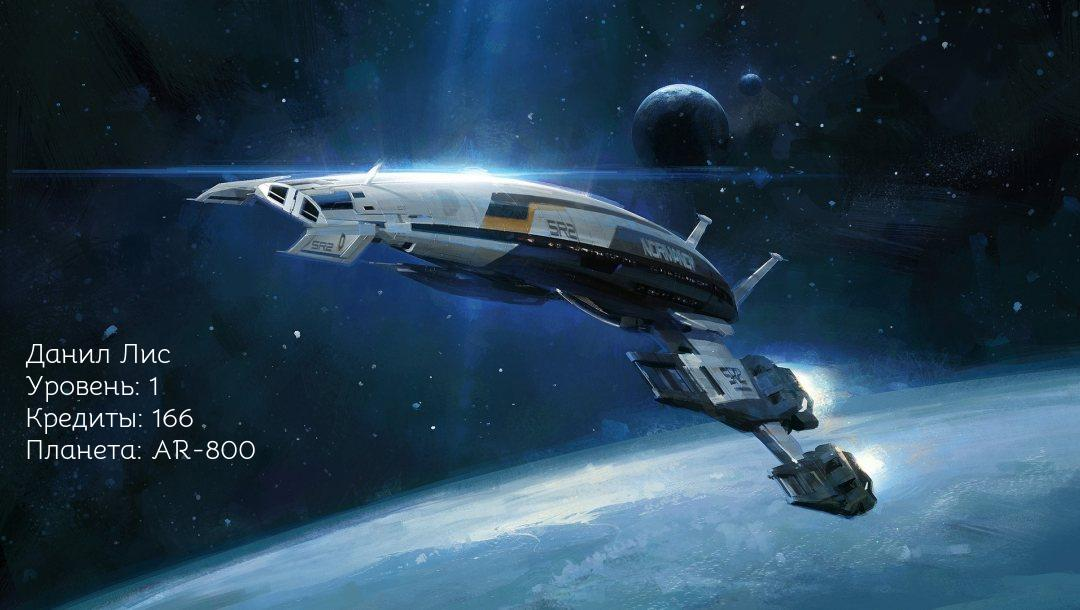
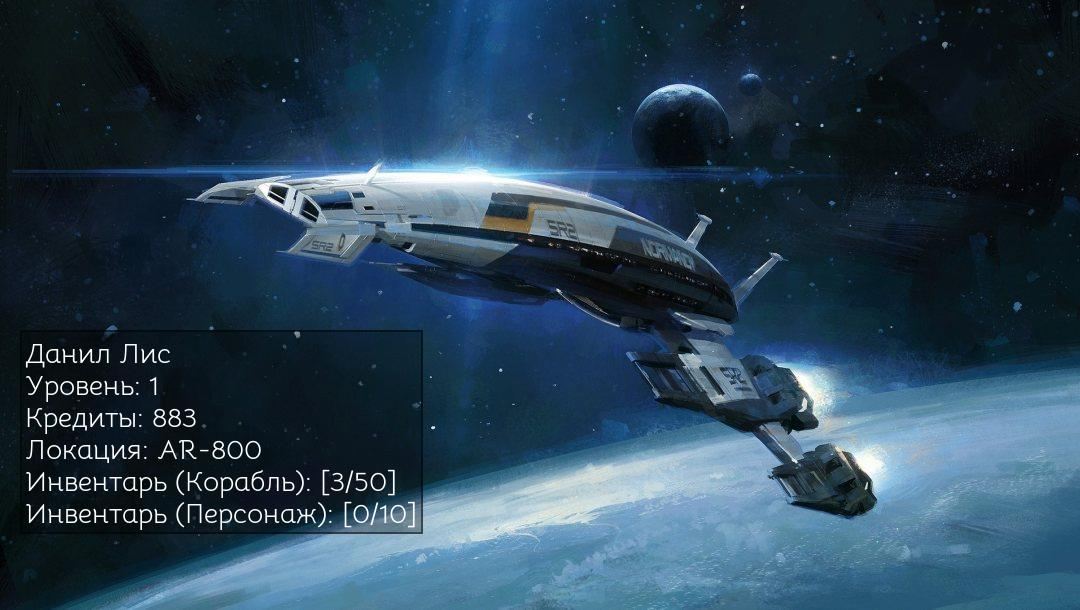
upd

Changed region(s): [[0.0, 0.6541, 0.3972, 0.9033], [0.2444, 0.5295, 0.3972, 0.5918], [0.3667, 0.6541, 0.3972, 0.6852]]

diff --git a/bot_start.py b/bot_start.py
@@ -113,29 +113,47 @@ def get_user_ship(user_id):
 	cur = conn.cursor()
 	cur.execute("SELECT item_id, count FROM users_inventory WHERE owner_id = ? and slot = ?", (user_id, 2))
 	items = cur.fetchall()
+	cur.execute("SELECT item_id, count FROM users_inventory WHERE owner_id = ? and slot = ?", (user_id, 3))
+	cur_items = len(cur.fetchall())
 	cur.execute("SELECT level, cash, planet, ship_id FROM users WHERE user_id = ?", (user_id,))
 	user = cur.fetchone()
+	# if user[2] % 10 != 0:
 	cur.execute("SELECT name FROM planets WHERE id = ?", (user[2],))
 	planet = cur.fetchone()[0]
+	# elif user[2] % 10 == 0:
+	# 	planet = 'Станция'
+	cur.execute("SELECT size_inventory_ship FROM users WHERE user_id = ?", (user_id,))
+	max_ship_slots = cur.fetchone()[0] # Сколько места на корабле
+	cur.execute("SELECT size_inventory_player FROM users WHERE user_id = ?", (user_id,))
+	max_user_slots = cur.fetchone()[0]
 	print(items)
 
 	fullname = get_user_name(user_id)
 	info = fullname[0]+' '+fullname[1]
 	info += '\n' + 'Уровень: ' + str(user[0])
 	info += '\n' + 'Кредиты: ' + str(user[1])
-	info += '\n' + 'Планета: ' + str(planet)
+	info += '\n' + 'Локация: ' + str(planet)
+	info += '\n' + 'Инвентарь (Корабль): [' + str(len(items)) + '/' + str(max_ship_slots) + ']'
+	info += '\n' + 'Инвентарь (Персонаж): [' + str(cur_items) + '/' + str(max_user_slots) + ']'
 
 
 	# if len(items) > 0:
 	# 	for item in items:
 	# 		item_info = check_item(item[0])
 	# 		fullname += '\n' + item_info[1] + ' - ' + str(item[1])
+	TINT_COLOR = (0, 0, 0)  # Black
+	TRANSPARENCY = .25  # Degree of transparency, 0-100%
+	OPACITY = int(255 * TRANSPARENCY)
 
 	img = Image.open('images/ship'+str(user[3])+'.jpg')
 	font = ImageFont.truetype('fonts/Bellota-Regular.ttf', size=28)
-	draw_text = ImageDraw.Draw(img)
+	draw_text = ImageDraw.Draw(img, "RGBA")
+	x, y = (25, img.height / 2 + 30)
+	w, h = draw_text.textsize(info, font)
+	draw_text.rectangle((x - 5, y - 5, x + w + 5, y + h + 10), fill=(0, 0, 0, 75))
+	draw_text.rectangle((x - 5, y - 5, x + w + 5, y + h + 10), outline=(0, 0, 0, 127), width=2)
 	draw_text.text(
-		(25, img.height / 2 + 30),
+		(x, y),
 		info,
 		font=font,
 		fill='#ffffff'
@@ -232,22 +250,28 @@ def get_items(user_id, slot_from, slot_to):
 		cur.execute("SELECT * FROM users_inventory WHERE owner_id = ? AND slot = ?", (user_id, slot_from,))
 		user_slots = cur.fetchall()
 
-		for slot in user_slots:
-			cur.execute("SELECT * FROM users_inventory WHERE owner_id = ? AND slot = ? AND item_id = ?", (user_id, slot_to, slot[0],))
-			current_ship_slot = cur.fetchone()
-			if len(current_ship_slot) != 0:
-				value = current_ship_slot[2] + slot[2]
-				cur.execute("UPDATE users_inventory SET count = ?, reg_time = ? WHERE owner_id = ? AND item_id = ? AND slot = ?", (value, datetime.now(), user_id, slot[0], slot_to,))
-				conn.commit()
-				cur.execute("DELETE FROM users_inventory WHERE item_id = ? AND owner_id = ? AND slot = ?", (slot[0], slot[1], slot[3],))
-				conn.commit()
-			elif len(current_ship_slot) == 0:
-				cur.execute("SELECT * FROM users_inventory WHERE owner_id = ? AND slot = ?", (user_id, slot_to,))
-				ship_slots = cur.fetchall() 
-				now_ship_slots = len(ship_slots) # Кол-во вещей на корабле
-				if now_ship_slots < max_slots:
-					cur.execute("UPDATE users_inventory SET slot = ?, reg_time = ? WHERE owner_id = ? AND item_id = ?", (slot_to, datetime.now(), user_id, slot[0],))
+		if len(user_slots) >= 1:
+
+			for slot in user_slots:
+				cur.execute("SELECT * FROM users_inventory WHERE owner_id = ? AND slot = ? AND item_id = ?", (user_id, slot_to, slot[0],))
+				current_ship_slot = cur.fetchone()
+				if current_ship_slot == None or len(current_ship_slot) == 0:
+					cur.execute("SELECT * FROM users_inventory WHERE owner_id = ? AND slot = ?", (user_id, slot_to,))
+					ship_slots = cur.fetchall() 
+					now_ship_slots = len(ship_slots) # Кол-во вещей на корабле
+					if now_ship_slots < max_slots:
+						cur.execute("UPDATE users_inventory SET slot = ?, reg_time = ? WHERE owner_id = ? AND item_id = ?", (slot_to, datetime.now(), user_id, slot[0],))
+						conn.commit()
+				elif len(current_ship_slot) != 0:
+					value = current_ship_slot[2] + slot[2]
+					cur.execute("UPDATE users_inventory SET count = ?, reg_time = ? WHERE owner_id = ? AND item_id = ? AND slot = ?", (value, datetime.now(), user_id, slot[0], slot_to,))
 					conn.commit()
+					cur.execute("DELETE FROM users_inventory WHERE item_id = ? AND owner_id = ? AND slot = ?", (slot[0], slot[1], slot[3],))
+					conn.commit()
+				
+			return send_message_to_user(user_id, 'Вы перенесли предметы на корабль')
+		else:
+			return send_message_to_user(user_id, 'Инвентарь персонажа пуст')
 
 
 
@@ -305,13 +329,17 @@ def create_sortie(user_id, state_planet):
 			text = 'Вы нашли жилу руды и добыли её \n'
 			count = status_planet[4] + random.randint(-5, 10)
 			text += 'Получено: ' + ore[1] + ' - ' + str(count) + ' шт.'
+			if state_on == 2:
+				text+= '\nПродолжаем путь...'
 			add_item(ore[0], user_id, count, 3)
 			send_message_to_user(user_id, text)
 
-		elif situation > 3 and situation < 8: # Хлам
+		elif situation > 3 and situation < 8 and status_planet[8] != None: # Хлам
 			trash = check_item(random.choice(status_planet[8].split(',')))
 			text = 'Вы нашли немного хлама \n'
 			text += 'Получено: ' + trash[1]
+			if state_on == 2:
+				text+= '\nПродолжаем путь...'
 			add_item(trash[0], user_id, 1, 3)
 			send_message_to_user(user_id, text)
 
@@ -319,11 +347,19 @@ def create_sortie(user_id, state_planet):
 			text = 'Вы нашли немного монет \n'
 			count = status_planet[5] + random.randint(-20, 20)
 			text += 'Получено: Кредиты' + ' - ' + str(count) + ' шт.'
+			if state_on == 2:
+				text+= '\n\nПродолжаем путь...'
 			add_money(user_id, count)
 			send_message_to_user(user_id, text)
 
-		if state_on == 2:
-			send_message_to_user(user_id, 'Продолжаем путь...')
+		else:
+			text = 'Вы ничего не нашли \n'
+			if state_on == 2:
+				text+= '\n\nПродолжаем путь...'
+			send_message_to_user(user_id, text)
+
+		# if state_on == 2:
+		# 	send_message_to_user(user_id, 'Продолжаем путь...')
 
 	send_message_to_user_keyboard(user_id, 'Вы возвращаетесь к кораблю...', 'empty')
 	change_state(user_id, 2, 'возвращение с планеты', None)
@@ -352,138 +388,146 @@ def create_sortie(user_id, state_planet):
 # 	""")
 # 	conn.commit()
 
-for event in longpoll.listen():
-	if event.type == VkEventType.MESSAGE_NEW and event.to_me and event.text:
-		print('\/\/\/\/\/\/\/\/\/\/\/\/\/\/\/\/\/\/\/\/\/\/')
-		print('Сообщение пришло в: ' + str(datetime.strftime(datetime.now(), "%H:%M:%S")))
-		print('Текст сообщения: ' + str(event.text))
-		print('ID пользователя: ' + str(event.user_id))
-		print('===========================================')
+while True:
+	try:
+		for event in longpoll.listen():
+			if event.type == VkEventType.MESSAGE_NEW and event.to_me and event.text:
+				print('\/\/\/\/\/\/\/\/\/\/\/\/\/\/\/\/\/\/\/\/\/\/')
+				print('Сообщение пришло в: ' + str(datetime.strftime(datetime.now(), "%H:%M:%S")))
+				print('Текст сообщения: ' + str(event.text))
+				print('ID пользователя: ' + str(event.user_id))
+				print('===========================================')
 
-		if event.from_user and not (event.from_me):
-			response = event.text.lower()
-			text = ''
-			fullname = get_user_name(event.user_id)
-			allow_to_bot = check_user(event.user_id)
-			print('Кто: '+fullname[0]+' '+fullname[1])
-			print('Доступ: '+str(allow_to_bot))
+				if event.from_user and not (event.from_me):
+					response = event.text.lower()
+					text = ''
+					fullname = get_user_name(event.user_id)
+					allow_to_bot = check_user(event.user_id)
+					print('Кто: '+fullname[0]+' '+fullname[1])
+					print('Доступ: '+str(allow_to_bot))
 
-			if allow_to_bot == 1:
-				status = check_status(event.user_id)
-				state = status[0]
-				state_info = status[1]
-				state_planet = status[2]
-				end_time = status[3]
-				print('Занятость: '+str(state))
-				print('Статус: '+str(state_info))
+					if allow_to_bot == 1:
+						status = check_status(event.user_id)
+						state = status[0]
+						state_info = status[1]
+						state_planet = status[2]
+						end_time = status[3]
+						print('Занятость: '+str(state))
+						print('Статус: '+str(state_info))
 
-				if state == None:
+						if state == None:
 
-					if state_info == 'выбор системы': # СТАТУС ВЫБОРА СИСТЕМЫ
-						cur_system = int(state_planet // 10 * 10)
-						for key in keyboard_system:
-							if response == keyboard_system[key][0].lower():
-								if cur_system != key:
-									# Перелёт
-									travel = threading.Thread(target=create_travel, args=(event.user_id, state_planet, key,))
-									send_message_to_user_keyboard(event.user_id, 'Вылетаем в систему ' + keyboard_system[key][0] + '...', 'idle')
-									travel.start()
+							if state_info == 'выбор системы': # СТАТУС ВЫБОРА СИСТЕМЫ
+								cur_system = int(state_planet // 10 * 10)
+								for key in keyboard_system:
+									if response == keyboard_system[key][0].lower():
+										if cur_system != key:
+											# Перелёт
+											travel = threading.Thread(target=create_travel, args=(event.user_id, state_planet, key,))
+											send_message_to_user_keyboard(event.user_id, 'Вылетаем в систему ' + keyboard_system[key][0] + '...', 'idle')
+											travel.start()
 
-					elif state_info == 'выбор планеты': # СТАТУС ВЫБОРА ПЛАНЕТЫ
-						planet = keys_planet[int(state_planet // 10 * 10)]
-						for key in planet:
-							if response == planet[key][0].lower():
-								if state_planet != key:
-									# Перелёт
-									travel = threading.Thread(target=create_travel, args=(event.user_id, state_planet, key,))
-									if key % 10 == 0:
-										send_message_to_user_keyboard(event.user_id, 'Вылетаем на станцию...', 'idle')
-									else:
-										send_message_to_user_keyboard(event.user_id, 'Вылетаем на планету ' + planet[key][0] + '...', 'idle')
-									travel.start()
+							elif state_info == 'выбор планеты': # СТАТУС ВЫБОРА ПЛАНЕТЫ
+								planet = keys_planet[int(state_planet // 10 * 10)]
+								for key in planet:
+									if response == planet[key][0].lower():
+										if state_planet != key:
+											# Перелёт
+											travel = threading.Thread(target=create_travel, args=(event.user_id, state_planet, key,))
+											if key % 10 == 0:
+												send_message_to_user_keyboard(event.user_id, 'Вылетаем на станцию...', 'idle')
+											else:
+												send_message_to_user_keyboard(event.user_id, 'Вылетаем на планету ' + planet[key][0] + '...', 'idle')
+											travel.start()
 
-					elif state_info == None: # НЕТ СТАТУСА
+							elif state_info == None: # НЕТ СТАТУСА
 
-						if response == 'корабль' or response == 'ship' or response == 'статус корабля':
-							get_user_ship(event.user_id)
-							ship_img = photo_messages('user_ships/ship' + str(event.user_id))
-							send_message_to_user_keyboard(event.user_id, 'Ваш корабль', 'main', ship_img)
+								if response == 'корабль' or response == 'ship' or response == 'статус корабля':
+									get_user_ship(event.user_id)
+									ship_img = photo_messages('user_ships/ship' + str(event.user_id))
+									send_message_to_user_keyboard(event.user_id, 'Ваш корабль', 'main', ship_img)
 
-						elif response == 'покинуть планетную систему': # ВЫБОР СИСТЕМЫ
-							keyboard = VkKeyboard(**settings_keyboard)
-							cur_system = int(state_planet // 10 * 10)
-							x = 0
-							for key in keyboard_system:
-								if x != 0 and x % 3 == 0:
+								elif response == 'покинуть планетную систему': # ВЫБОР СИСТЕМЫ
+									keyboard = VkKeyboard(**settings_keyboard)
+									cur_system = int(state_planet // 10 * 10)
+									x = 0
+									for key in keyboard_system:
+										if x != 0 and x % 3 == 0:
+											keyboard.add_line()
+										if key != cur_system:
+											keyboard.add_button(label=keyboard_system[key][0], color=keyboard_system[key][1])
+										x += 1
 									keyboard.add_line()
-								if key != cur_system:
-									keyboard.add_button(label=keyboard_system[key][0], color=keyboard_system[key][1])
-								x += 1
-							keyboard.add_line()
-							keyboard.add_button(label='Назад', color=VkKeyboardColor.SECONDARY)
-							keys = keyboard.get_keyboard()
-							change_state(event.user_id, None, 'выбор системы', None) # СТАТУС ВО ВРЕМЯ СМЕНЫ ПЛАНЕТЫ
-							send_message_to_user_keys(event.user_id, 'Выберите систему:', keys)
+									keyboard.add_button(label='Назад', color=VkKeyboardColor.SECONDARY)
+									keys = keyboard.get_keyboard()
+									change_state(event.user_id, None, 'выбор системы', None) # СТАТУС ВО ВРЕМЯ СМЕНЫ ПЛАНЕТЫ
+									send_message_to_user_keys(event.user_id, 'Выберите систему:', keys)
 
-						elif response == 'сменить планету': # ВЫБОР ПЛАНЕТЫ
-							keyboard = VkKeyboard(**settings_keyboard)
-							cur_system = int(state_planet // 10 * 10)
-							print(cur_system)
-							planet = keys_planet[cur_system]
-							x = 0
-							for key in planet:
-								if x != 0 and x % 3 == 0:
+								elif response == 'сменить планету': # ВЫБОР ПЛАНЕТЫ
+									keyboard = VkKeyboard(**settings_keyboard)
+									cur_system = int(state_planet // 10 * 10)
+									print(cur_system)
+									planet = keys_planet[cur_system]
+									x = 0
+									for key in planet:
+										if x != 0 and x % 3 == 0:
+											keyboard.add_line()
+										if key != state_planet:
+											keyboard.add_button(label=planet[key][0], color=planet[key][1])
+										x += 1
 									keyboard.add_line()
-								if key != state_planet:
-									keyboard.add_button(label=planet[key][0], color=planet[key][1])
-								x += 1
-							keyboard.add_line()
-							keyboard.add_button(label='Назад', color=VkKeyboardColor.SECONDARY)
-							keys = keyboard.get_keyboard()
-							change_state(event.user_id, None, 'выбор планеты', None) # СТАТУС ВО ВРЕМЯ СМЕНЫ ПЛАНЕТЫ
-							send_message_to_user_keys(event.user_id, 'Выберите планету:', keys)
+									keyboard.add_button(label='Назад', color=VkKeyboardColor.SECONDARY)
+									keys = keyboard.get_keyboard()
+									change_state(event.user_id, None, 'выбор планеты', None) # СТАТУС ВО ВРЕМЯ СМЕНЫ ПЛАНЕТЫ
+									send_message_to_user_keys(event.user_id, 'Выберите планету:', keys)
 
 
-						elif response == 'забрать':
-							get_items(event.user_id, 3, 2)
-							send_message_to_user(event.user_id, 'Вы перенесли предметы на корабль')
+								elif response == 'выгрузка инвентаря':
+									get_items(event.user_id, 3, 2)
 
 
-						elif response == 'вылазка':
-							sortie = threading.Thread(target=create_sortie, args=(event.user_id, state_planet,))
-							send_message_to_user_keyboard(event.user_id, 'Вы вылетаете на планету и начинаете её исследование. \n (Следите за состоянием своего героя)', 'back')
-							sortie.start()
+								elif response == 'вылазка':
+									if state_planet % 10 == 0:
+										send_message_to_user(event.user_id, 'Здесь нет возможности высадиться')
+									elif state_planet % 10 != 0:
+										sortie = threading.Thread(target=create_sortie, args=(event.user_id, state_planet,))
+										send_message_to_user_keyboard(event.user_id, 'Вы вылетаете на планету и начинаете её исследование. \n (Следите за состоянием своего героя)', 'back')
+										sortie.start()
 
-					if response == 'назад':
-						change_state(event.user_id, None, None, None)
-						send_message_to_user_keyboard(event.user_id, 'Вы вернулись в панель управления кораблём:', 'main')
+							if response == 'назад':
+								change_state(event.user_id, None, None, None)
+								send_message_to_user_keyboard(event.user_id, 'Вы вернулись в панель управления кораблём:', 'main')
 
-				elif state == 1:
+						elif state == 1:
 
-					if response == 'ожидайте...':
+							if response == 'ожидайте...':
 
-						x = int(datetime.now().timestamp())
-						y = datetime.fromisoformat(end_time).timestamp()
-						z = int(abs(x-y))
-						send_message_to_user_keyboard(event.user_id, 'До окончания полёта осталось: ' + str(z) 	+ ' секунд.', 'idle')
+								x = int(datetime.now().timestamp())
+								y = datetime.fromisoformat(end_time).timestamp()
+								z = int(abs(x-y))
+								send_message_to_user_keyboard(event.user_id, 'До окончания полёта осталось: ' + str(z) 	+ ' секунд.', 'idle')
 
-				elif state == 2:
+						elif state == 2:
 
-					if response == 'вернуться':
-						change_state(event.user_id, None, None, None)
-						send_message_to_user(event.user_id, 'Подготовка к возрату')
-						
-						
+							if response == 'вернуться':
+								change_state(event.user_id, None, None, None)
+								send_message_to_user(event.user_id, 'Подготовка к возрату')
+								
+								
 
 
 
 
-				# 	if response == 'отмена':
+						# 	if response == 'отмена':
 
 
-			elif allow_to_bot == 0:
-				if response == 'начать' or response == 'start':
-					create_user(event.user_id, fullname[0], fullname[1])
-					send_message_to_user_keyboard(event.user_id, 'Добро пожаловать на ваш космический корабль, '+ fullname[0] + ' ' + fullname[1] +'!', 'main')
+					elif allow_to_bot == 0:
+						if response == 'начать' or response == 'start':
+							create_user(event.user_id, fullname[0], fullname[1])
+							send_message_to_user_keyboard(event.user_id, 'Добро пожаловать на ваш космический корабль, '+ fullname[0] + ' ' + fullname[1] +'!', 'main')
 
-		print('/\/\/\/\/\/\/\/\/\/\/\/\/\/\/\/\/\/\/\/\/\/\ \n \n \n')
+				print('/\/\/\/\/\/\/\/\/\/\/\/\/\/\/\/\/\/\/\/\/\/\ \n \n \n')
+				
+	except requests.exceptions.ReadTimeout:
+		print("\n Переподключение к серверам ВК \n")
+		time.sleep(3)

diff --git a/keyboards_list.py b/keyboards_list.py
@@ -16,6 +16,8 @@ keyboard_main = {
 	1 : '',
 	'Статус корабля' : VkKeyboardColor.SECONDARY,
 	2 : '',
+	'Выгрузка инвентаря' : VkKeyboardColor.SECONDARY,
+	3 : '',
 	'Покинуть планетную систему' : VkKeyboardColor.NEGATIVE
 }
 
